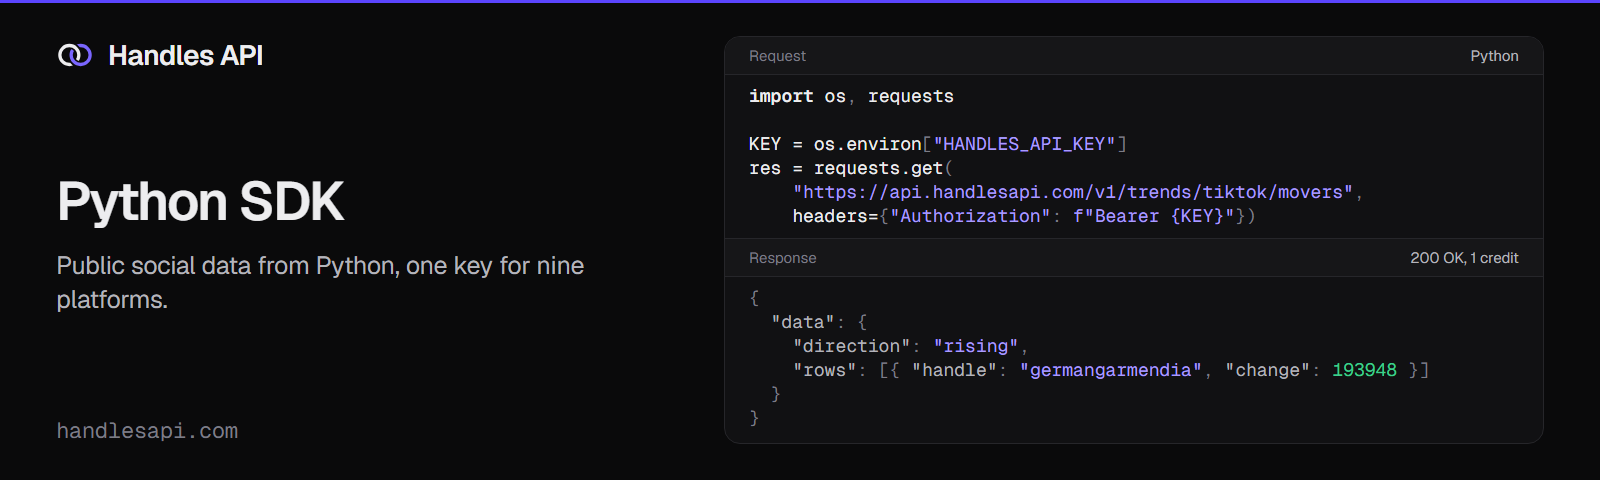
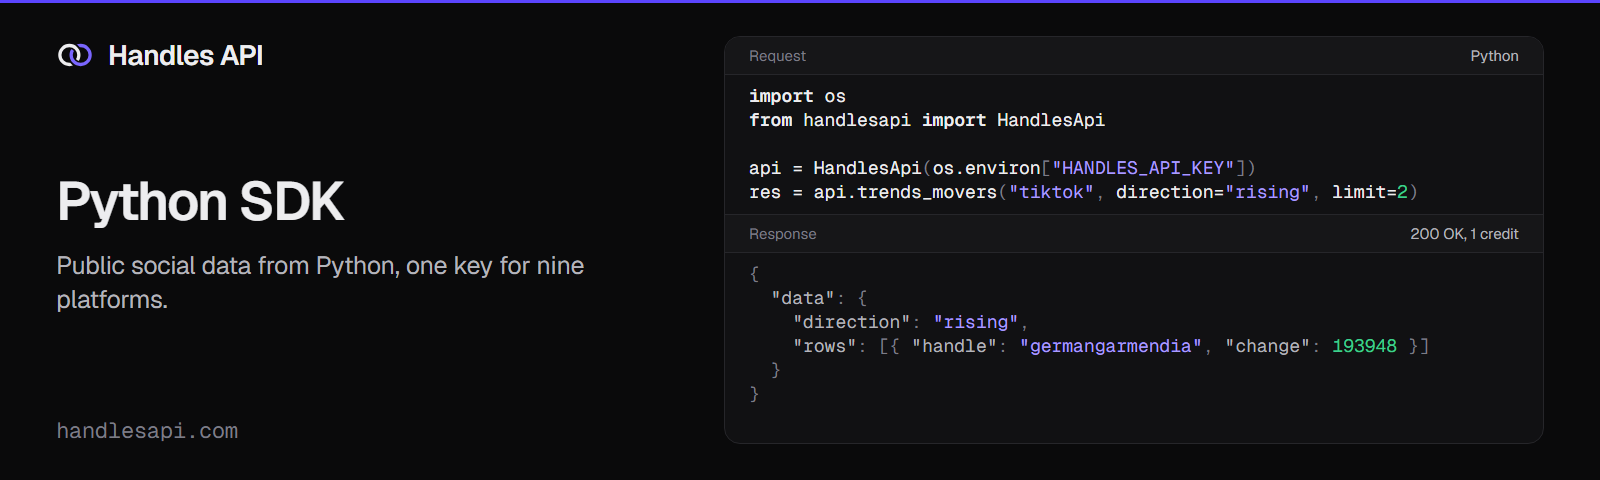
Refresh images; sync spec and clients with handlesapi.com/openapi.json

diff --git a/scripts/generate.py b/scripts/generate.py
@@ -17,7 +17,7 @@ import urllib.request
 from pathlib import Path
 from typing import Any
 
-DEFAULT_SPEC = "https://raw.githubusercontent.com/handlesapi/openapi/main/openapi.json"
+DEFAULT_SPEC = "https://handlesapi.com/openapi.json"
 OUT = Path(__file__).resolve().parent.parent / "src" / "handlesapi"
 
 

diff --git a/README.md b/README.md
@@ -134,7 +134,7 @@ Each page costs credits, so set `max_pages`. With `AsyncHandlesApi`, use `async 
 The types and method list under `src/handlesapi/` (`_types.py`, `_operations.py`, `_methods.py`) are generated from [`openapi.json`](https://github.com/handlesapi/openapi). The generator is part of this repo and uses only the standard library:
 
 ```bash
-python scripts/generate.py                    # downloads the latest spec from GitHub
+python scripts/generate.py                    # downloads the latest spec from handlesapi.com/openapi.json
 python scripts/generate.py ./openapi.json     # or use a local copy
 ```
 
@@ -162,6 +162,6 @@ The same API is available to AI assistants as a remote [Model Context Protocol](
 - MCP server: [handlesapi/mcp](https://github.com/handlesapi/mcp)
 - Changelog: [CHANGELOG.md](CHANGELOG.md), contributing: [CONTRIBUTING.md](CONTRIBUTING.md), security: [SECURITY.md](SECURITY.md)
 - TypeScript client: [handlesapi-js](https://github.com/handlesapi/handlesapi-js)
-- OpenAPI spec: [handlesapi/openapi](https://github.com/handlesapi/openapi)
+- OpenAPI spec: [handlesapi.com/openapi.json](https://handlesapi.com/openapi.json), also in [handlesapi/openapi](https://github.com/handlesapi/openapi)
 
 Handles API is an independent service and is not affiliated with any of the platforms it covers. It returns public data only. MIT licensed.
